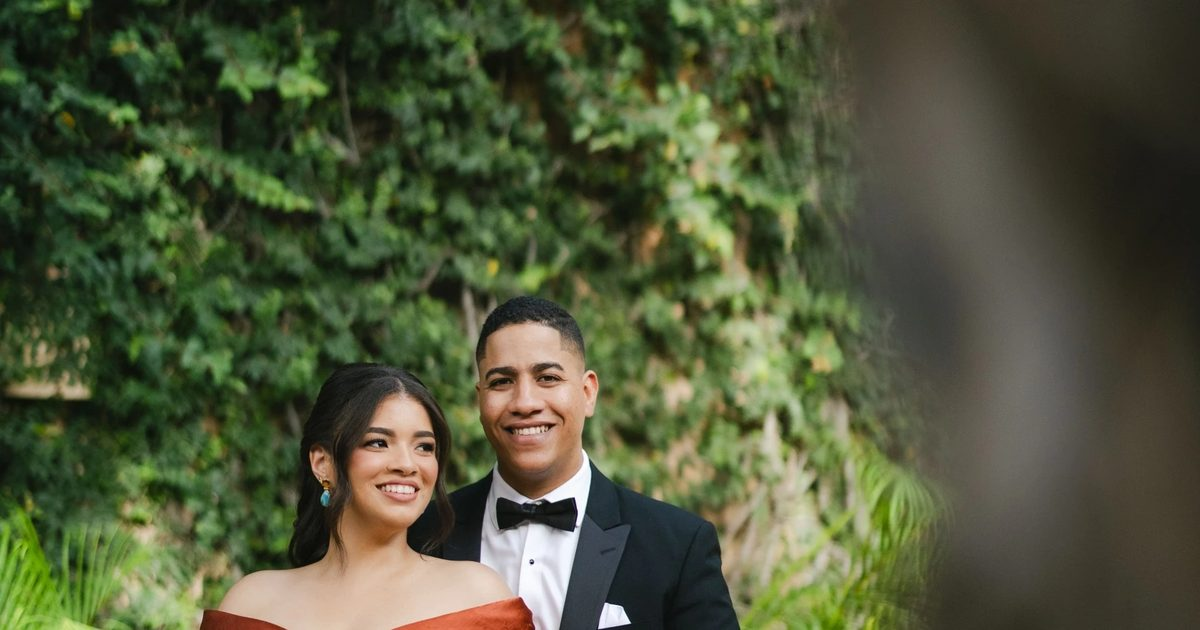
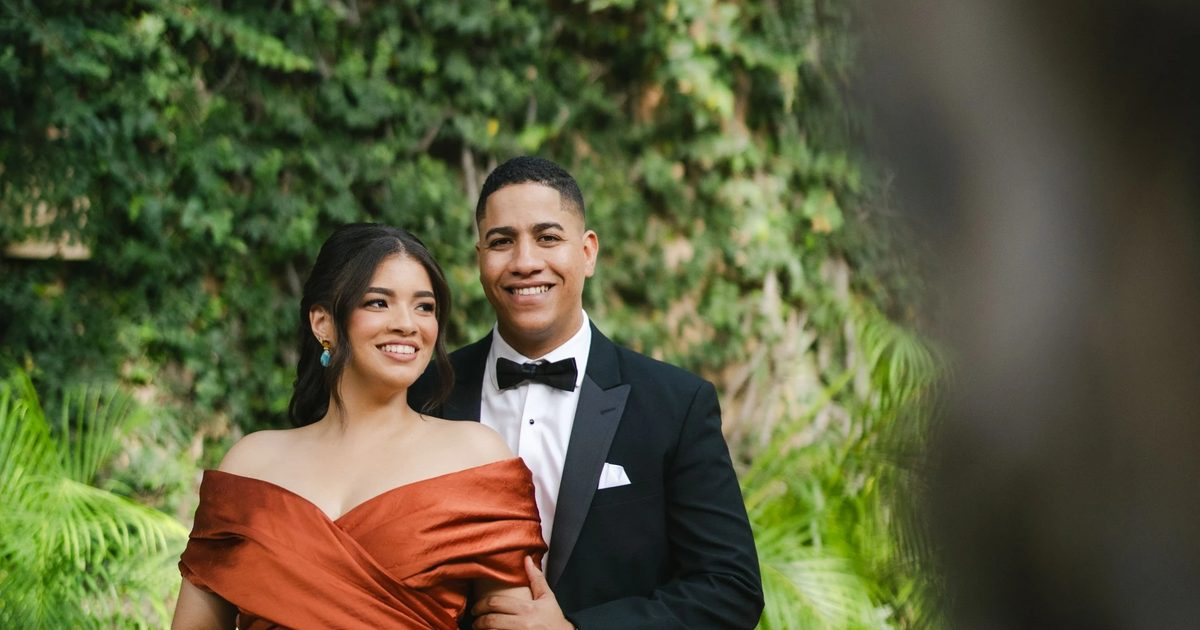
og: recorte de la imagen con la pareja más arriba en el encuadre (?v=4)

diff --git a/index.html b/index.html
@@ -14,7 +14,7 @@
     <meta property="og:site_name" content="Stephanie & Dalvin">
     <meta property="og:title" content="Stephanie & Dalvin">
     <meta property="og:url" content="https://boda-step.vercel.app/">
-    <meta property="og:image" content="https://boda-step.vercel.app/images/og-image.jpg?v=3">
+    <meta property="og:image" content="https://boda-step.vercel.app/images/og-image.jpg?v=4">
     <meta property="og:image:type" content="image/jpeg">
     <meta property="og:image:width" content="1200">
     <meta property="og:image:height" content="630">
@@ -22,7 +22,7 @@
     <meta property="og:locale" content="es_DO">
     <meta name="twitter:card" content="summary_large_image">
     <meta name="twitter:title" content="Stephanie & Dalvin">
-    <meta name="twitter:image" content="https://boda-step.vercel.app/images/og-image.jpg?v=3">
+    <meta name="twitter:image" content="https://boda-step.vercel.app/images/og-image.jpg?v=4">
 
     <!-- Favicon -->
     <link rel="icon" type="image/x-icon" href="/images/favicon.ico">
